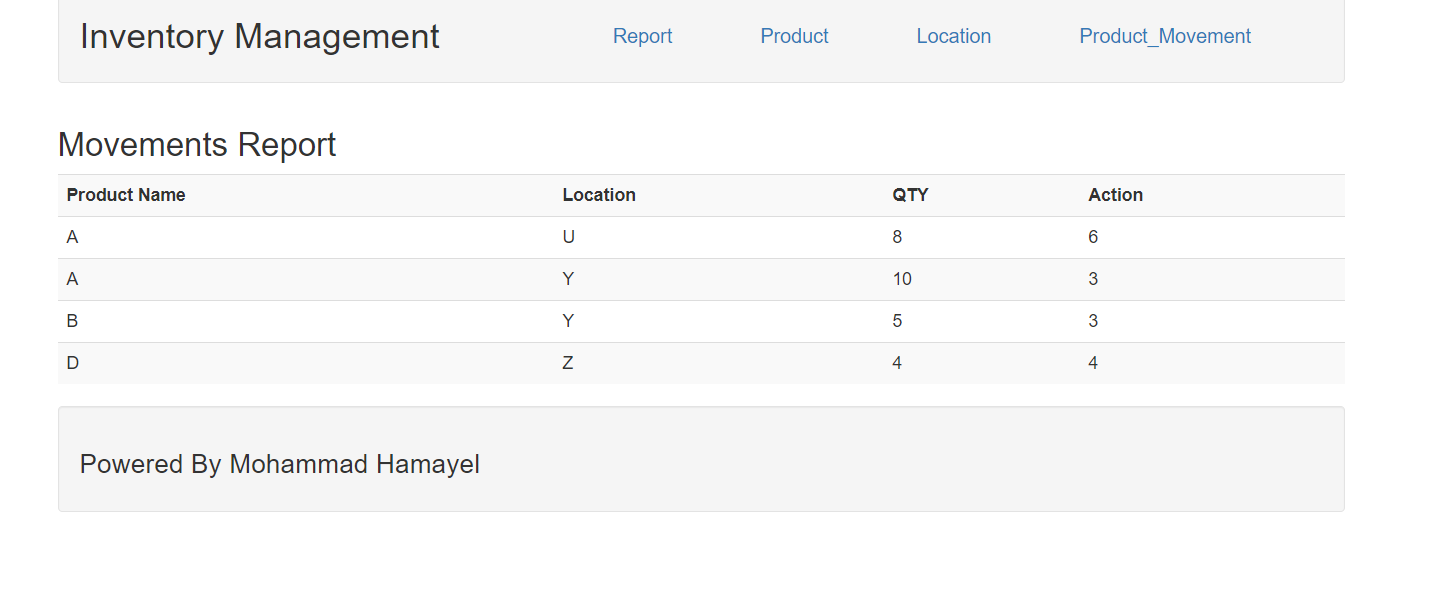
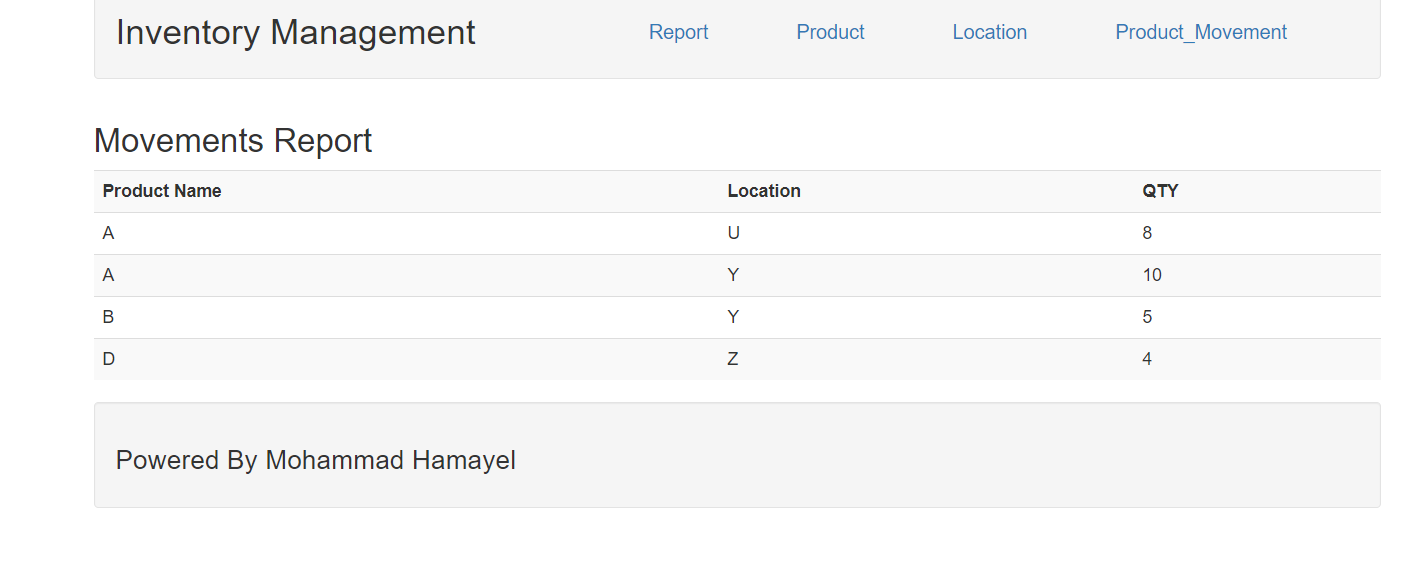
add report

diff --git a/templates/index.html b/templates/index.html
@@ -49,7 +49,6 @@
               <th>Product Name</th>
               <th>Location</th>
               <th>QTY</th>
-              <th>Action</th>
 
 
           </tr>
@@ -63,7 +62,6 @@
                     <td>{{row.0}}</td>
                     <td>{{row.1}}</td>
                     <td>{{row.2}}</td>
-                    <td>{{row.3}}</td>
 
                 </tr>
 
